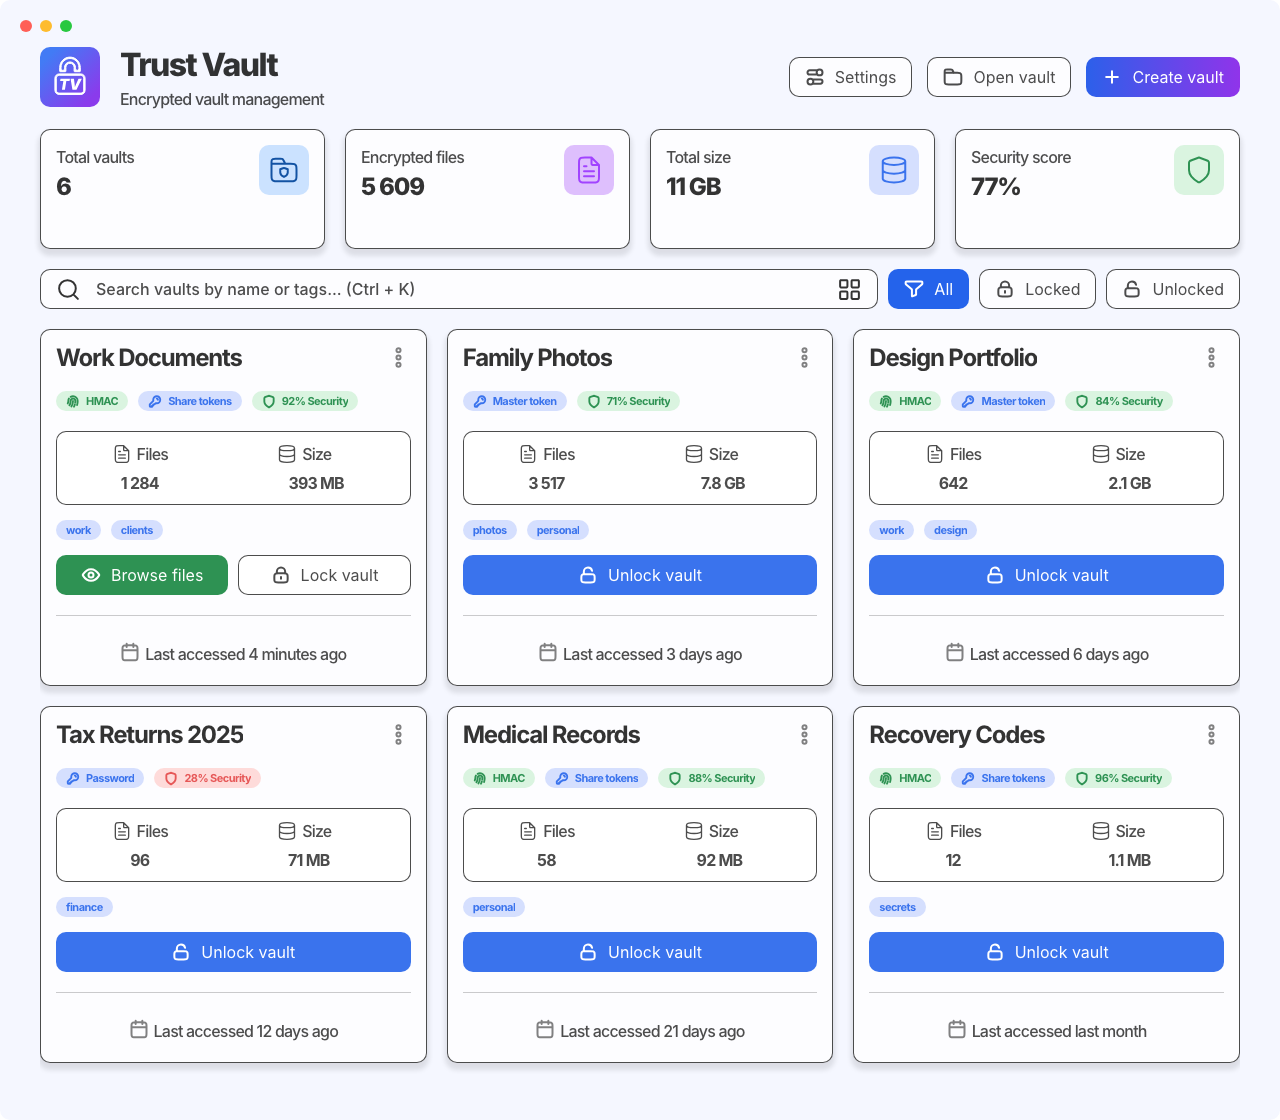
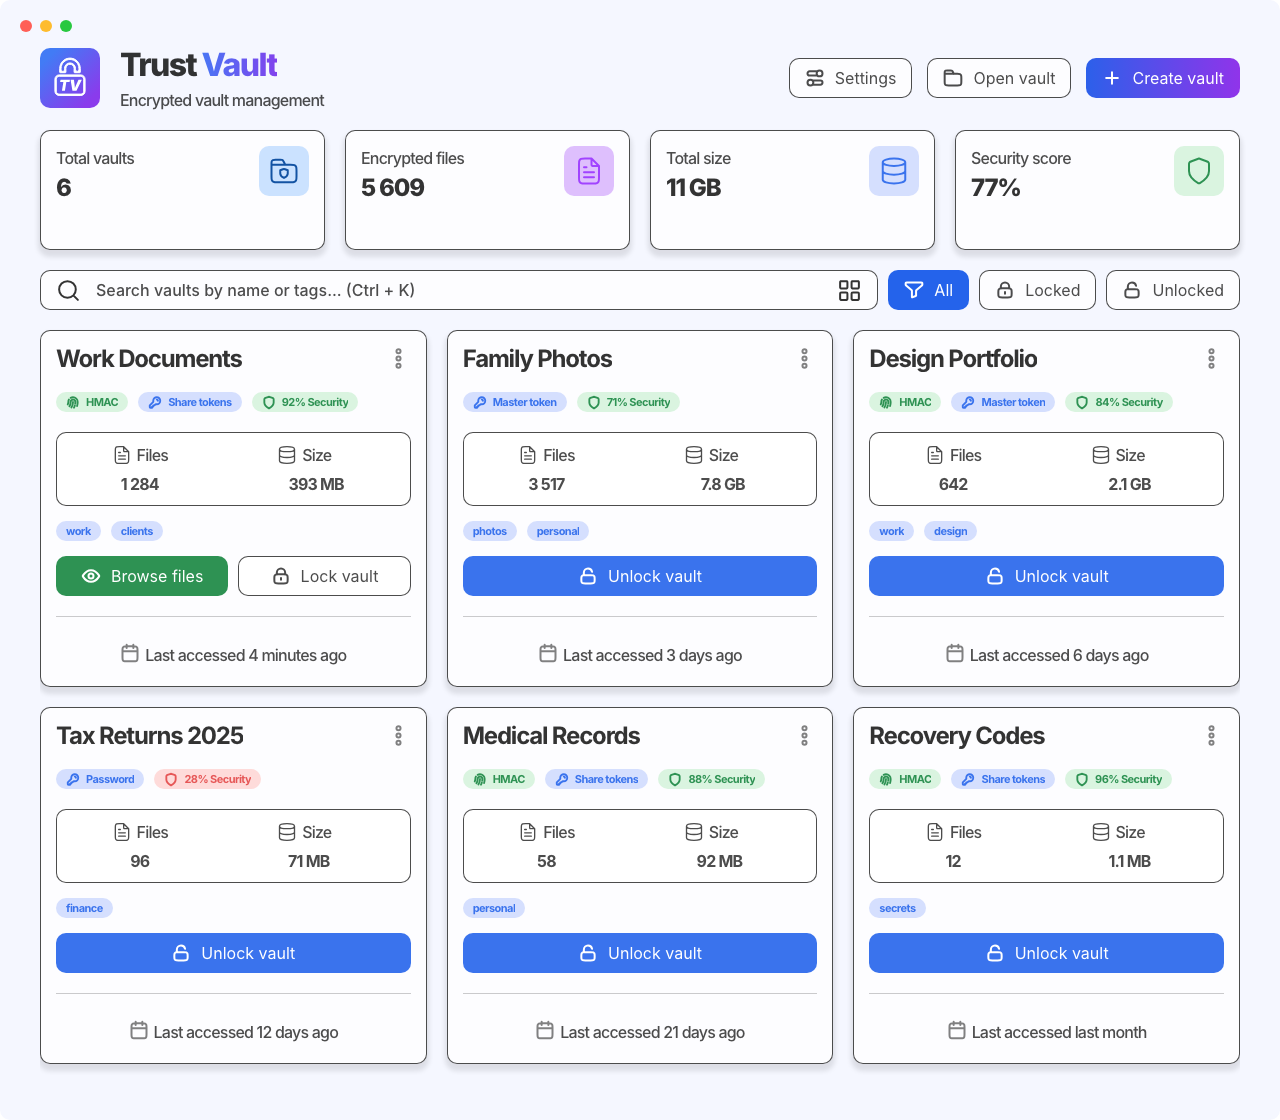
[SINGLE-9] Шапка и модалка добавления по макету  - Заголовок: слово "Vault" с фирменным градиентом (свои цвета   для тёмной и светлой темы), лидинг и запрет переноса - Модалка добавления сейфа: поле 275, "Обзор" 155, кнопки 230 —   как в фигме - UIButton: className больше не затирается спредом props

diff --git a/src/features/Modal/components/ModalAdd/ModalAdd.tsx b/src/features/Modal/components/ModalAdd/ModalAdd.tsx
@@ -270,8 +270,13 @@ const Section = ({
 
 	return (
 		<div
+			/**
+			 * 14px + the 1px border reads as Figma's 15px inset: there the stroke is
+			 * drawn over the frame, while a CSS border eats into it — and those 2px are
+			 * exactly what the 275 + 10 + 155 row below needs to fit without shrinking.
+			 */
 			className={cn(
-				"w-full flex flex-col gap-[10px] border rounded-[10px] p-[15px] bg-surface border-line",
+				"w-full flex flex-col gap-[10px] border rounded-[10px] p-[14px] bg-surface border-line",
 			)}>
 			<div className="flex items-center gap-[10px]">
 				<UIImgIcon icon={icon} width={29} height={29} color="#538DD5" />
@@ -308,6 +313,7 @@ const PathPicker = ({
 				)}>
 				{formatMessage({ id: label })}
 			</p>
+			{/** Figma: 275 + 10 + 155 fills the 440 inside a card (15px padding, 470 wide). */}
 			<div className="flex items-center gap-[10px]">
 				<UIInput
 					value={value}
@@ -319,8 +325,10 @@ const PathPicker = ({
 					icon={icons.eye}
 					text={formatMessage({ id: "common.browse" })}
 					onClick={onBrowse}
+					center
+					className="shrink-0"
 					style={{
-						width: "fit-content",
+						width: 155,
 						backgroundColor: GREEN,
 						color: "#ffffff",
 					}}

diff --git a/src/index.css b/src/index.css
@@ -116,6 +116,9 @@ html.native-frame body {
 		--tint-warning: #4a3c2a;
 		--tint-danger: #4a2e3f;
 		--hover-tint: rgba(255, 255, 255, 0.05);
+
+		--brand-from: #bd85fc;
+		--brand-to: #62a4fa;
 	}
 
 	:root.light {
@@ -150,6 +153,9 @@ html.native-frame body {
 		--tint-warning: #fceccb;
 		--tint-danger: #fedbda;
 		--hover-tint: rgba(0, 0, 0, 0.05);
+
+		--brand-from: #4976f4;
+		--brand-to: #8143ed;
 	}
 }
 
@@ -181,6 +187,17 @@ html.native-frame body {
 	--color-warning: var(--warning);
 	--color-danger: var(--danger);
 	--color-hover-tint: var(--hover-tint);
+}
+
+.text-brand {
+	background-image: linear-gradient(
+		to right,
+		var(--brand-from),
+		var(--brand-to)
+	);
+	background-clip: text;
+	-webkit-background-clip: text;
+	color: transparent;
 }
 
 /* Light-only elevation: the dark theme separates cards with borders instead. */

diff --git a/src/features/Layout/components/LayoutHeader/LayoutHeader.tsx b/src/features/Layout/components/LayoutHeader/LayoutHeader.tsx
@@ -91,8 +91,8 @@ const LayoutHeader = () => {
 				<div className="flex items-center gap-[20px] pointer-events-none">
 					<img src={logo} alt="logo" />
 					<div className="flex flex-col gap-[5px]">
-						<h1 className="text-[32px] font-extrabold leading-[39px] tracking-[-0.05em] text-primary-fg">
-							Trust Vault
+						<h1 className="text-[32px] font-extrabold leading-[40px] tracking-[-0.05em] whitespace-nowrap text-primary-fg">
+							Trust <span className="text-brand">Vault</span>
 						</h1>
 						<p className="text-[16px] font-medium leading-[20px] tracking-[-0.05em] text-secondary-fg">
 							{formatMessage({ id: "header.subtitle" })}

diff --git a/src/features/UI/components/UIButton/UIButton.tsx b/src/features/UI/components/UIButton/UIButton.tsx
@@ -10,6 +10,12 @@ const UIButton = ({
 	noTheme = false,
 	color = "#ffffff",
 	center = false,
+	/**
+	 * Pulled out of `props` on purpose: the spread below would otherwise re-assign
+	 * `className` after the merged one, wiping every class the button has — a caller
+	 * adding a single utility would silently lose the whole layout.
+	 */
+	className,
 	...props
 }: {
 	text: string;
@@ -46,7 +52,7 @@ const UIButton = ({
 					"hover:brightness-110 active:brightness-95":
 						!disabled && !loading && coloured,
 				},
-				props.className,
+				className,
 			)}
 			{...props}
 			style={{

diff --git a/README.md b/README.md
@@ -57,6 +57,12 @@ TVault follows a simple flow: **Create** → **Unlock** → **Work with files** 
 
 4. **Finish.** The container is created at the chosen location, with real progress reported while your files are packed and encrypted. If the vault uses a master token or Shamir shares, **this is the only time they are shown** — copy or save them now, they cannot be recovered later.
 
+### Open a vault that is not on the dashboard
+
+A container that TVault has never seen — one you copied from another machine, or that lives outside your scanned folders — is opened with **Open vault** in the header. Point it at the `*.tvlt` file and either add it to the dashboard for later, or unlock it straight away.
+
+![Open a vault](docs/screenshots/add-vault.png)
+
 ### Unlock a vault
 
 Press **Unlock vault** on the card. TVault asks only for what that vault actually needs: a password, a master token, or the required number of Shamir shares — plus the HMAC password, if integrity verification is enabled.
